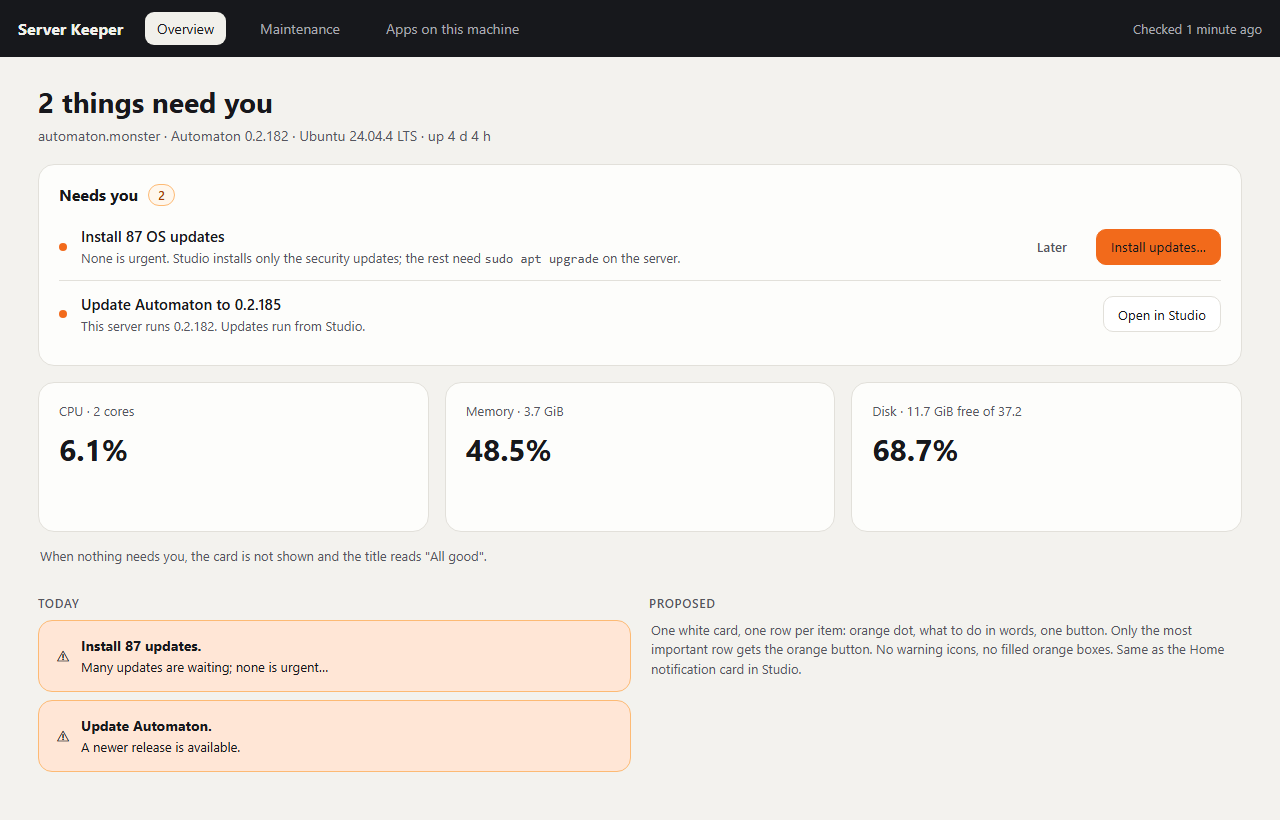
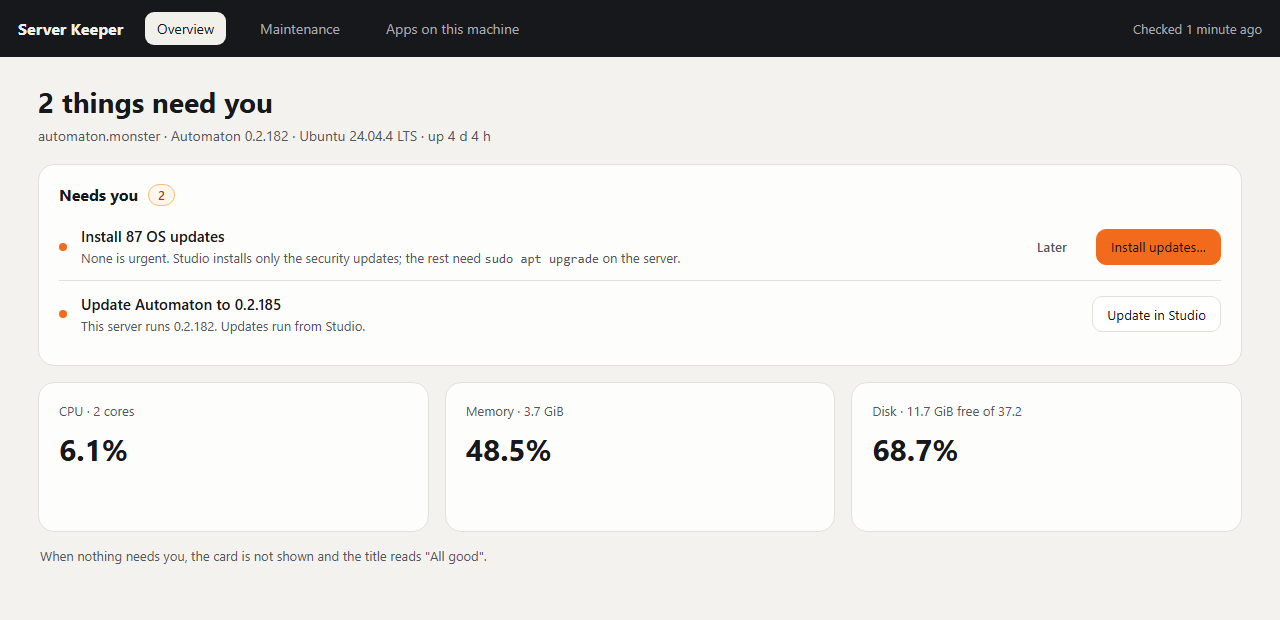
Server Keeper mock: drop the old-design comparison, button reads Update in Studio (#468)

diff --git a/design/mocks/server-keeper-needs-you.html b/design/mocks/server-keeper-needs-you.html
@@ -43,7 +43,7 @@ h1{margin:0;font-size:28px}
   <section class="card" aria-label="Needs you">
     <h2>Needs you <span class="n">2</span></h2>
     <div class="row"><span class="d" aria-hidden="true"></span><div class="t"><b>Install 87 OS updates</b><span>None is urgent. Studio installs only the security updates; the rest need <code>sudo apt upgrade</code> on the server.</span></div><button class="btn ghost">Later</button><button class="btn primary">Install updates…</button></div>
-    <div class="row"><span class="d" aria-hidden="true"></span><div class="t"><b>Update Automaton to 0.2.185</b><span>This server runs 0.2.182. Updates run from Studio.</span></div><button class="btn">Open in Studio</button></div>
+    <div class="row"><span class="d" aria-hidden="true"></span><div class="t"><b>Update Automaton to 0.2.185</b><span>This server runs 0.2.182. Updates run from Studio.</span></div><button class="btn">Update in Studio</button></div>
   </section>
 
   <div class="grid">
@@ -53,10 +53,6 @@ h1{margin:0;font-size:28px}
   </div>
   <p class="note">When nothing needs you, the card is not shown and the title reads "All good".</p>
 
-  <div class="cmp">
-    <div><div class="lbl">Today</div><div class="old">⚠ <div><b>Install 87 updates.</b><br><span style="font-size:13px">Many updates are waiting; none is urgent…</span></div></div><div class="old">⚠ <div><b>Update Automaton.</b><br><span style="font-size:13px">A newer release is available.</span></div></div></div>
-    <div><div class="lbl">Proposed</div><p class="note" style="margin-top:8px">One white card, one row per item: orange dot, what to do in words, one button. Only the most important row gets the orange button. No warning icons, no filled orange boxes. Same as the Home notification card in Studio.</p></div>
-  </div>
 </main>
 </body>
 </html>
